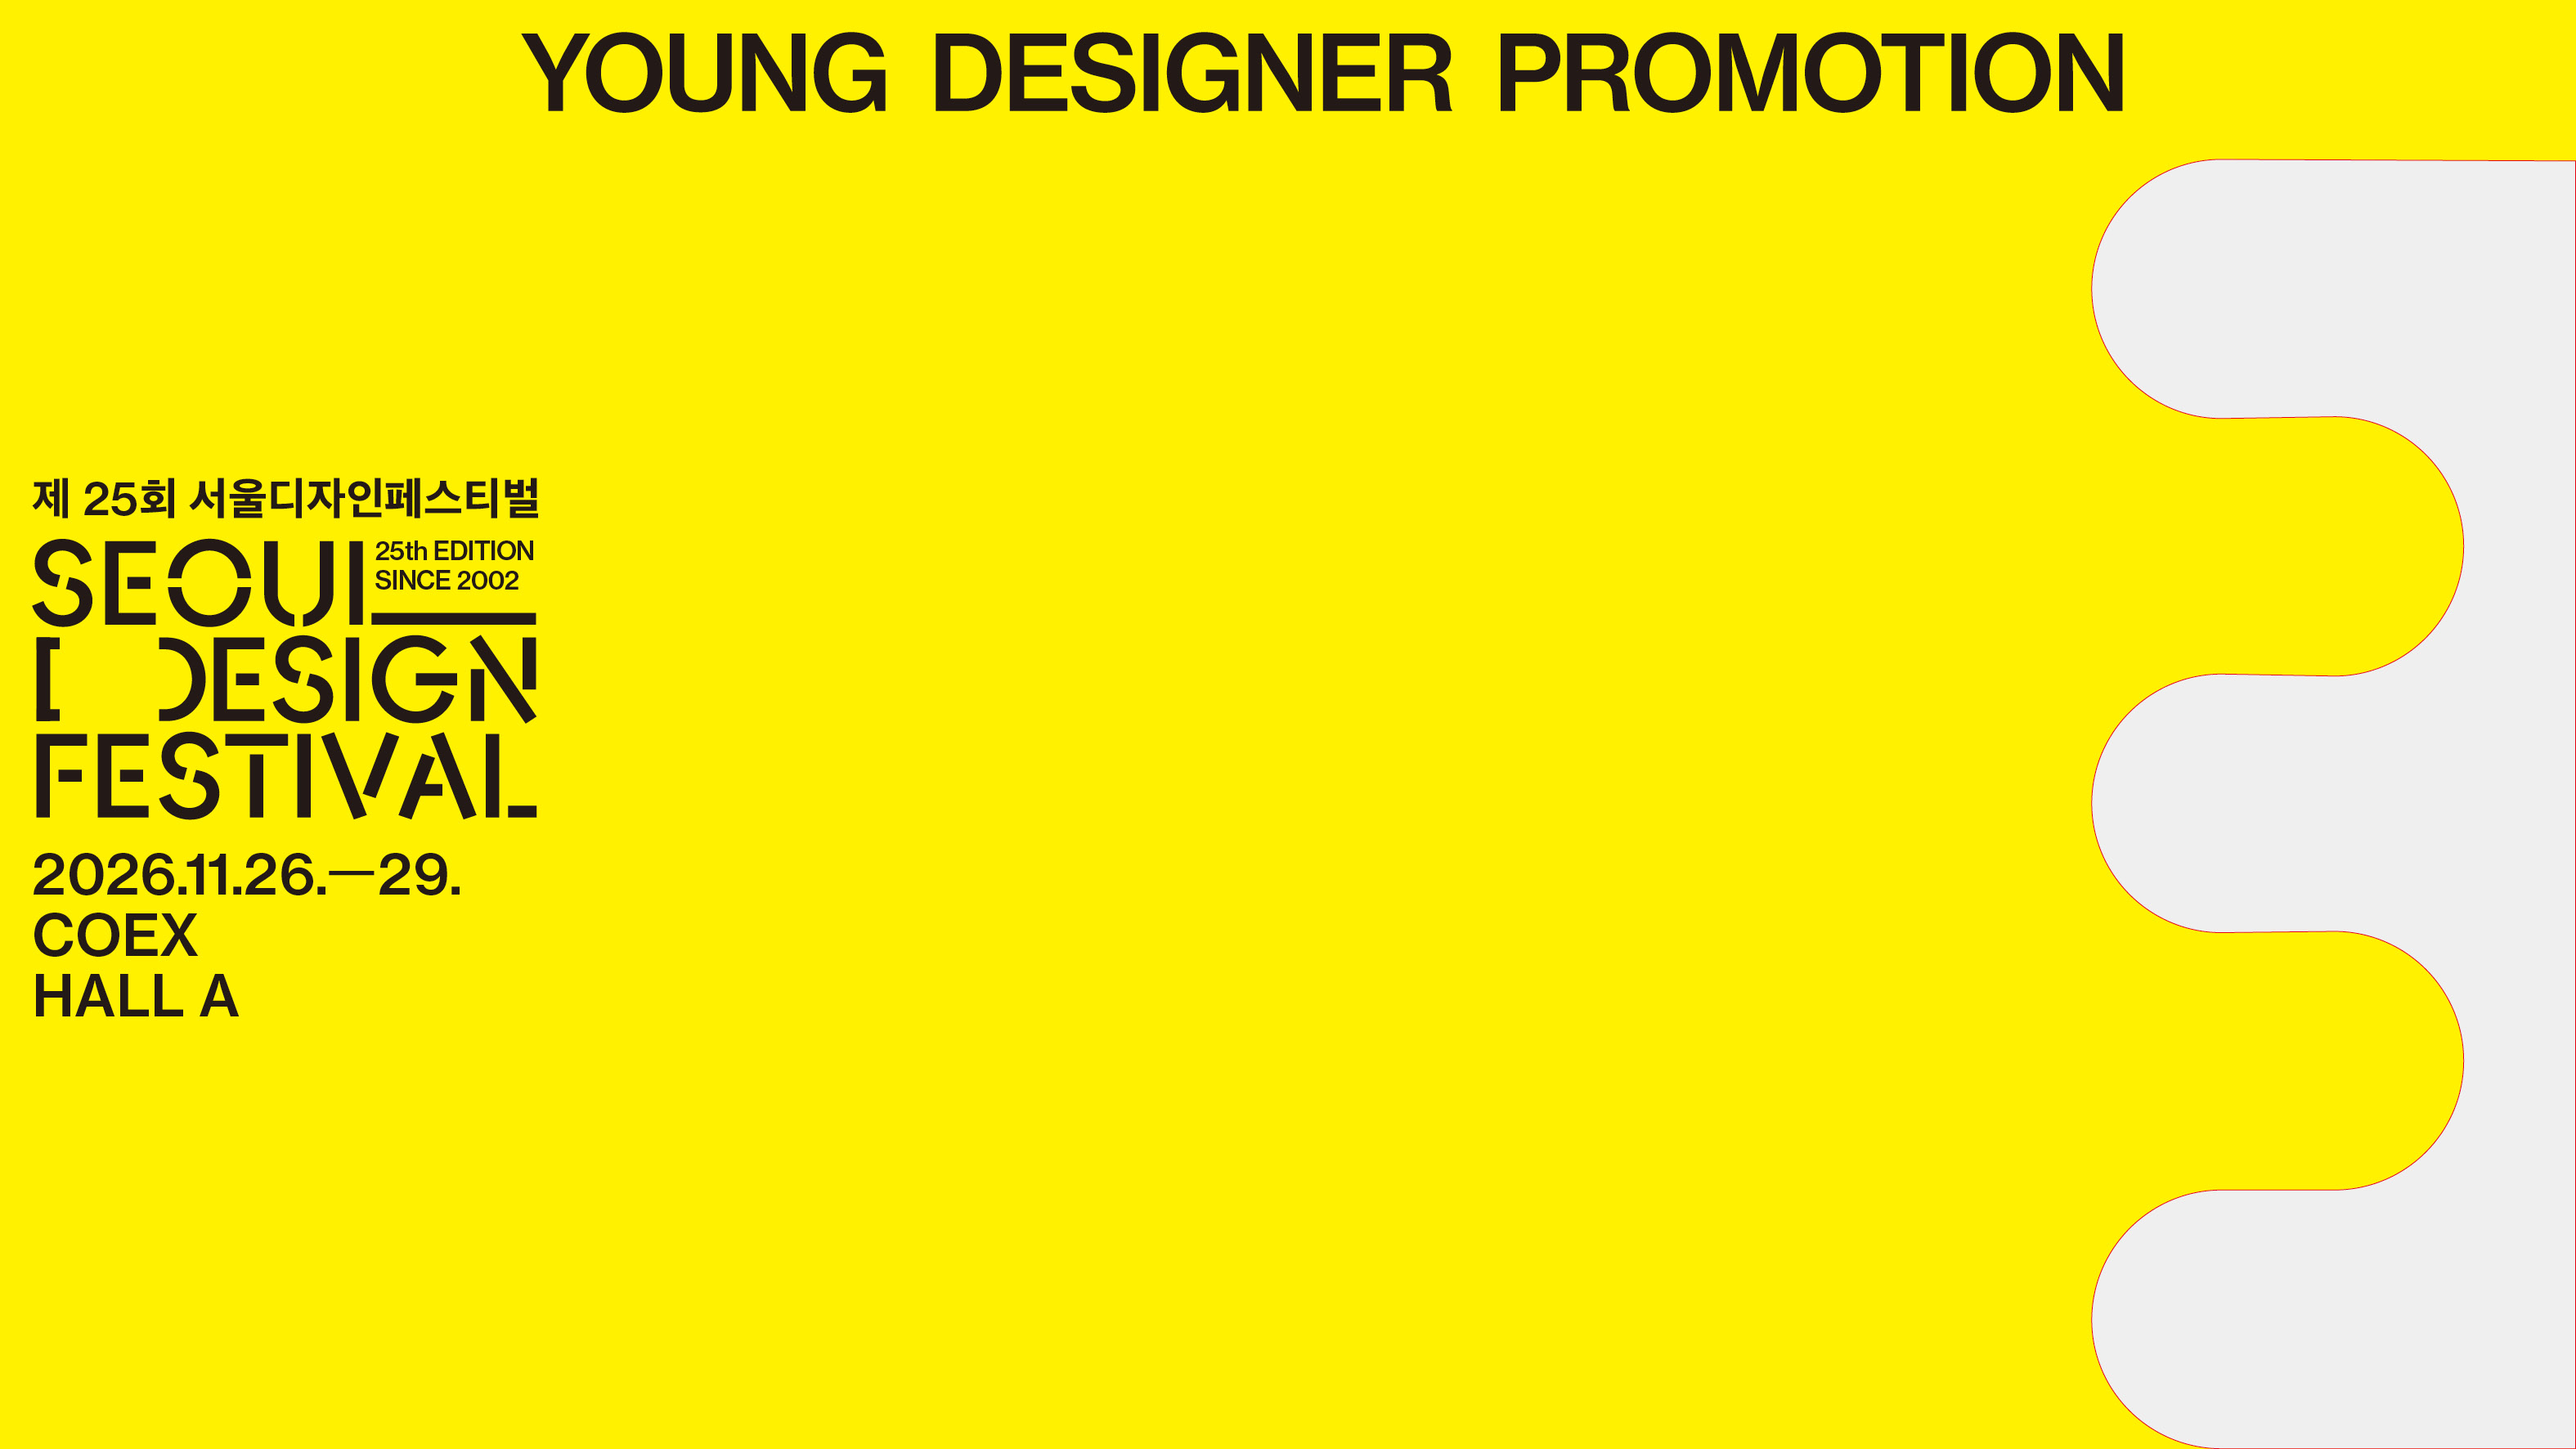
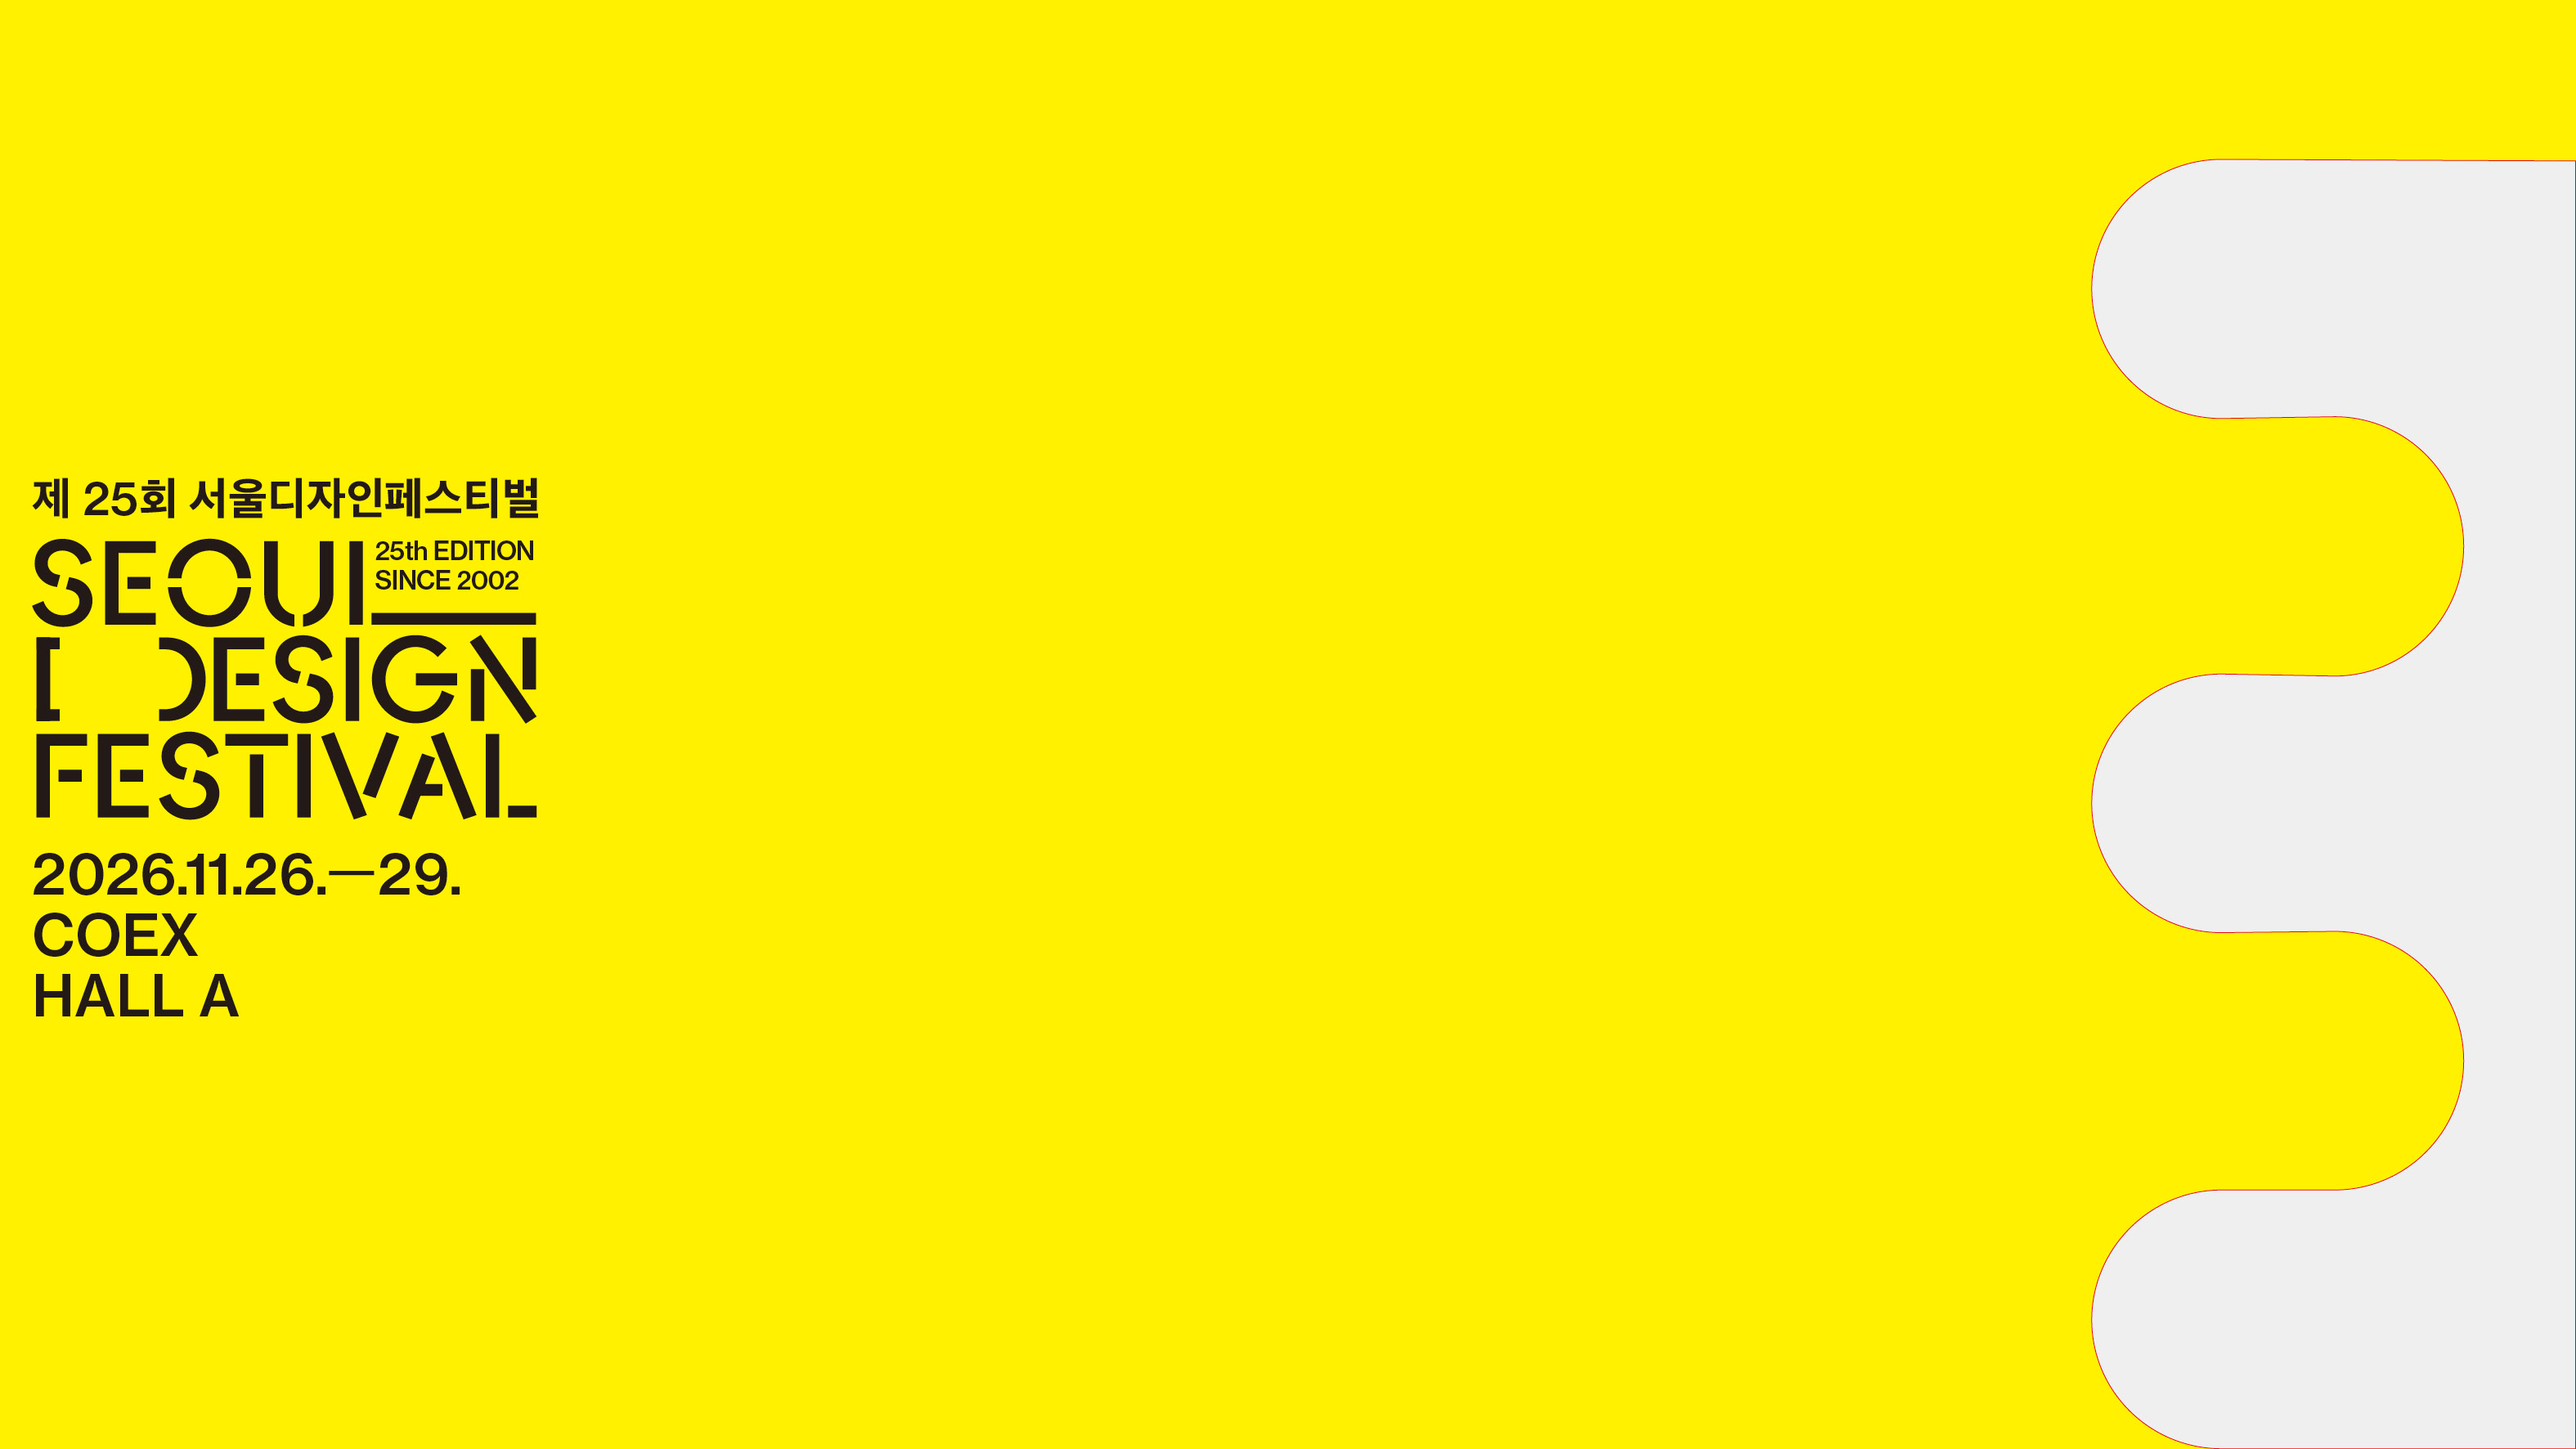
인디자인 최신본 반영: D 메인 정면벽, F 출입구 상부 패널

Changed region(s): [[0.1867, 0.0, 0.84, 0.0931]]

diff --git a/index.html b/index.html
@@ -326,7 +326,7 @@ html { -webkit-text-size-adjust: 100%; }
   /* ---------- panel list UI ---------- */
   var list = $('panels');
   PANELS.forEach(function (p) {
-    p.defUrl = 'panels/' + p.id + '.jpg?v=261119b';
+    p.defUrl = 'panels/' + p.id + '.jpg?v=261119c';
     var li = document.createElement('li'); li.id = 'row-' + p.id;
     li.innerHTML =
       '<button class="thumb" type="button" aria-label="' + p.id + ' ' + p.name + ' 이미지 올리기"><img alt=""></button>' +
